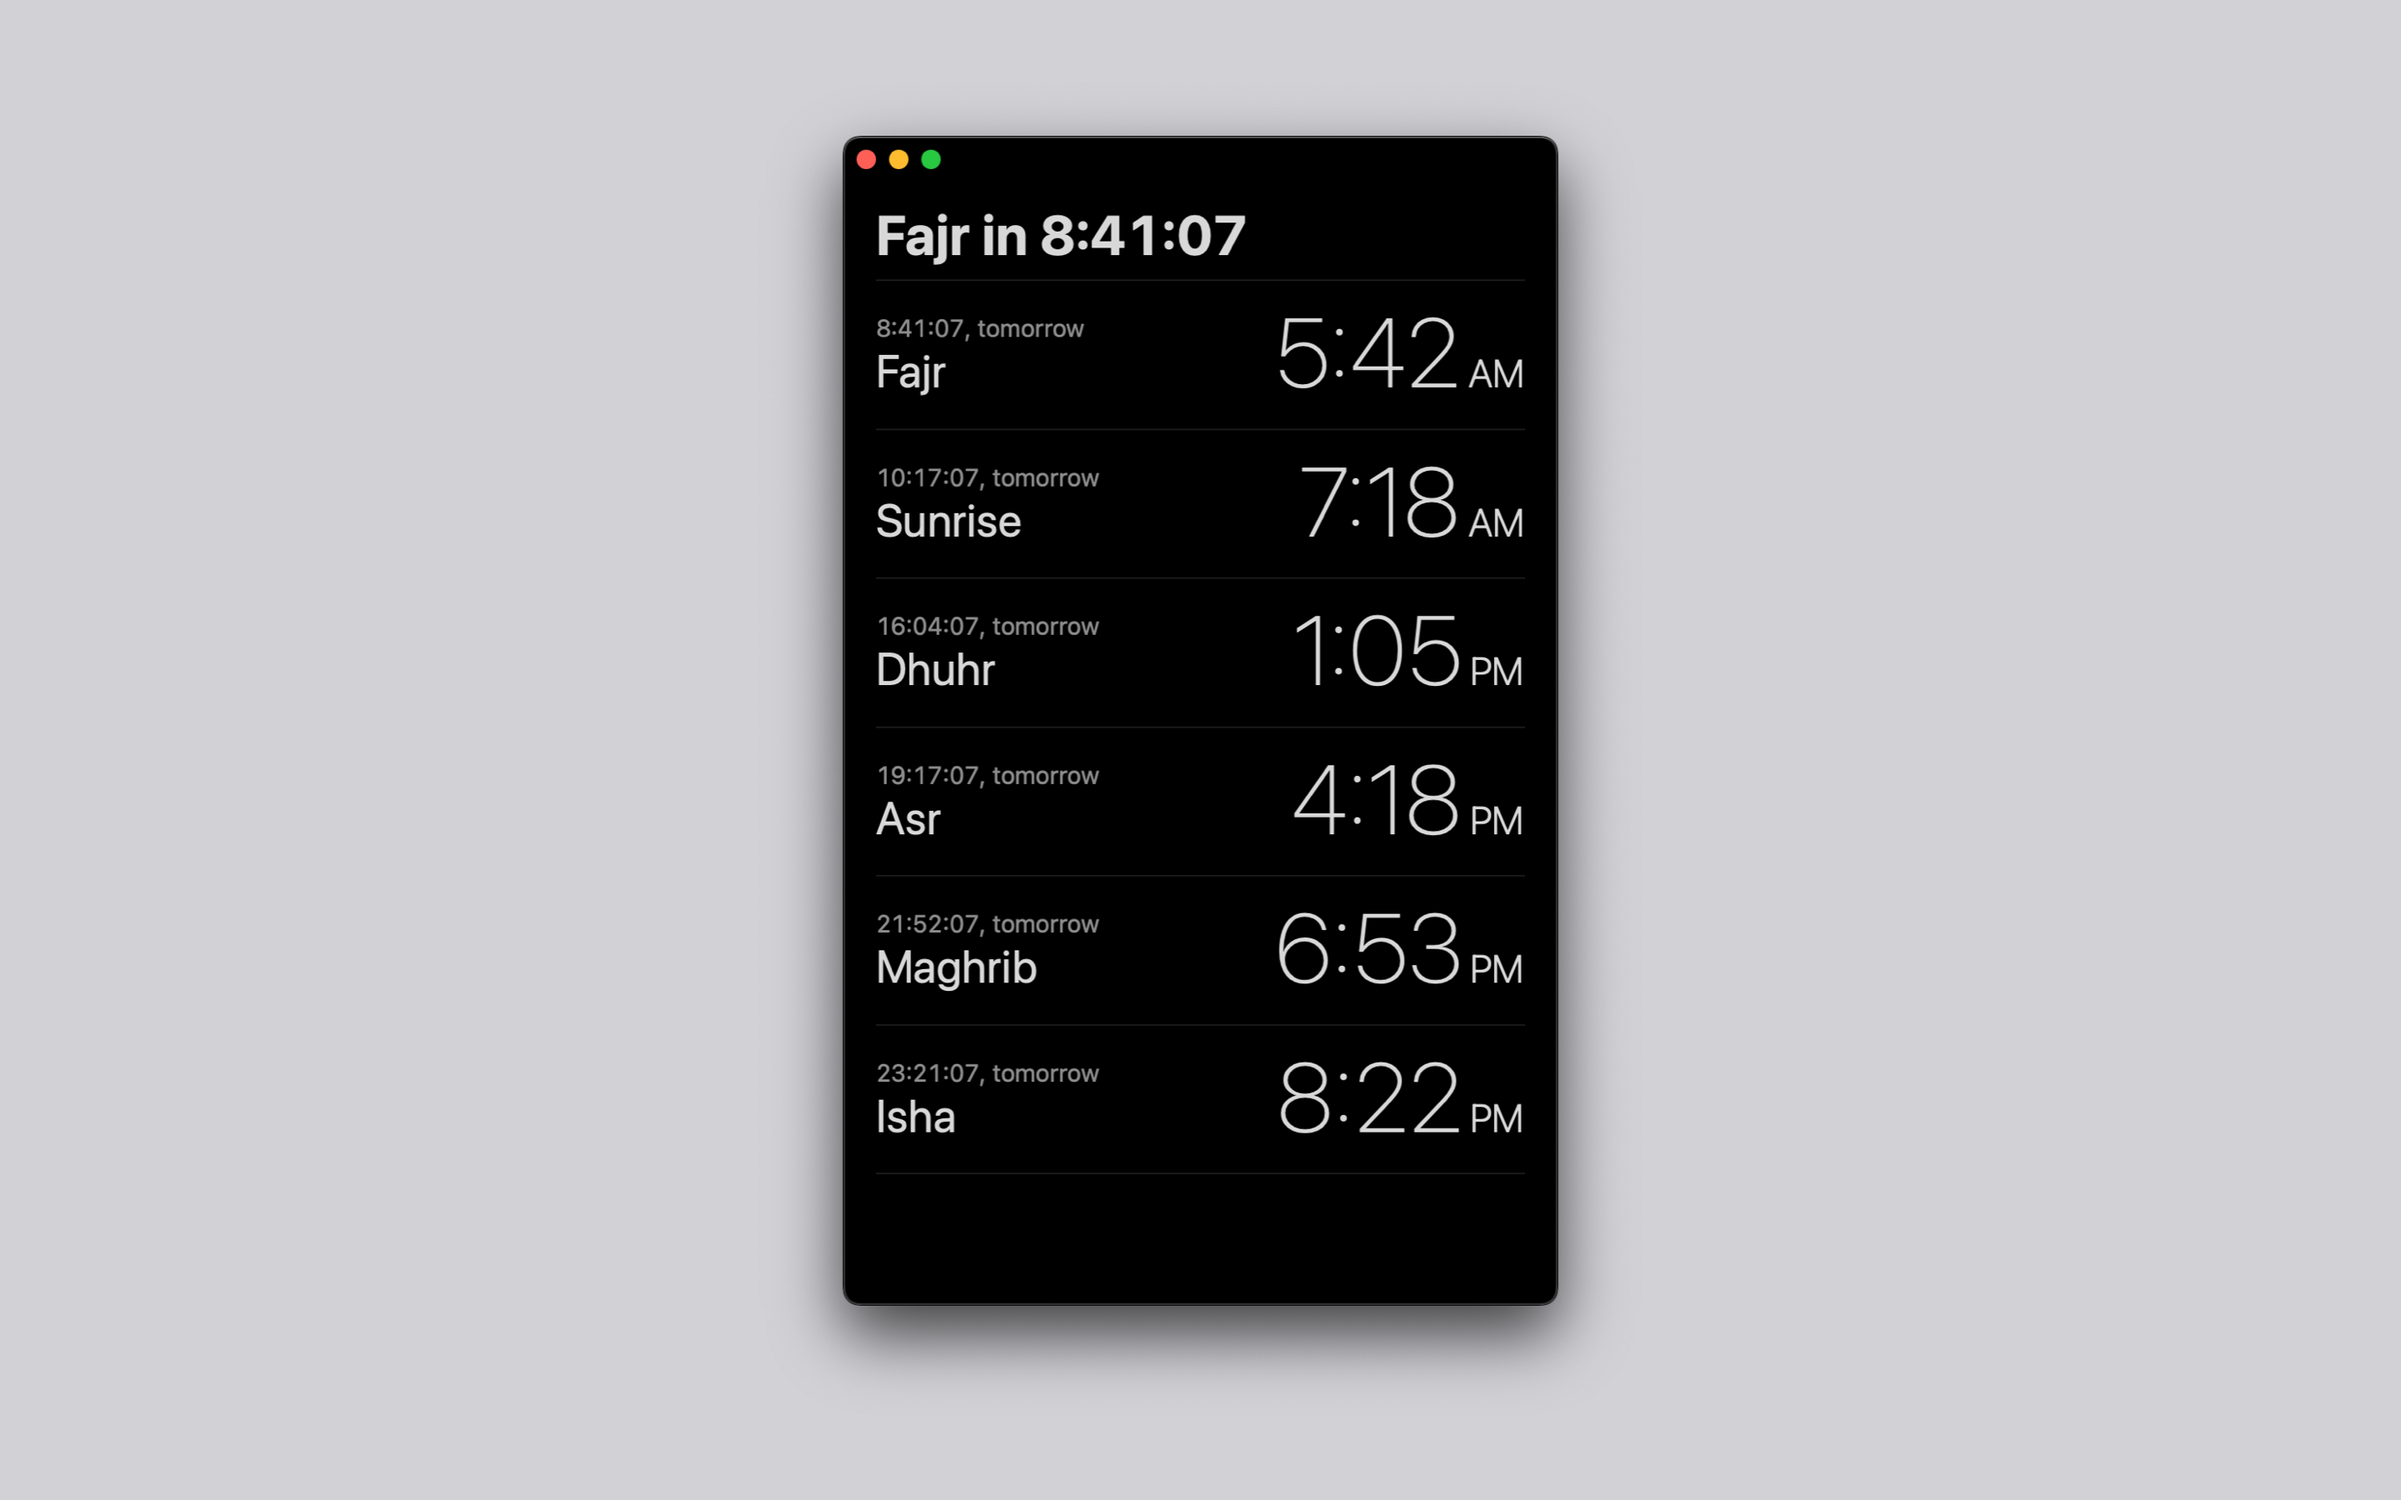
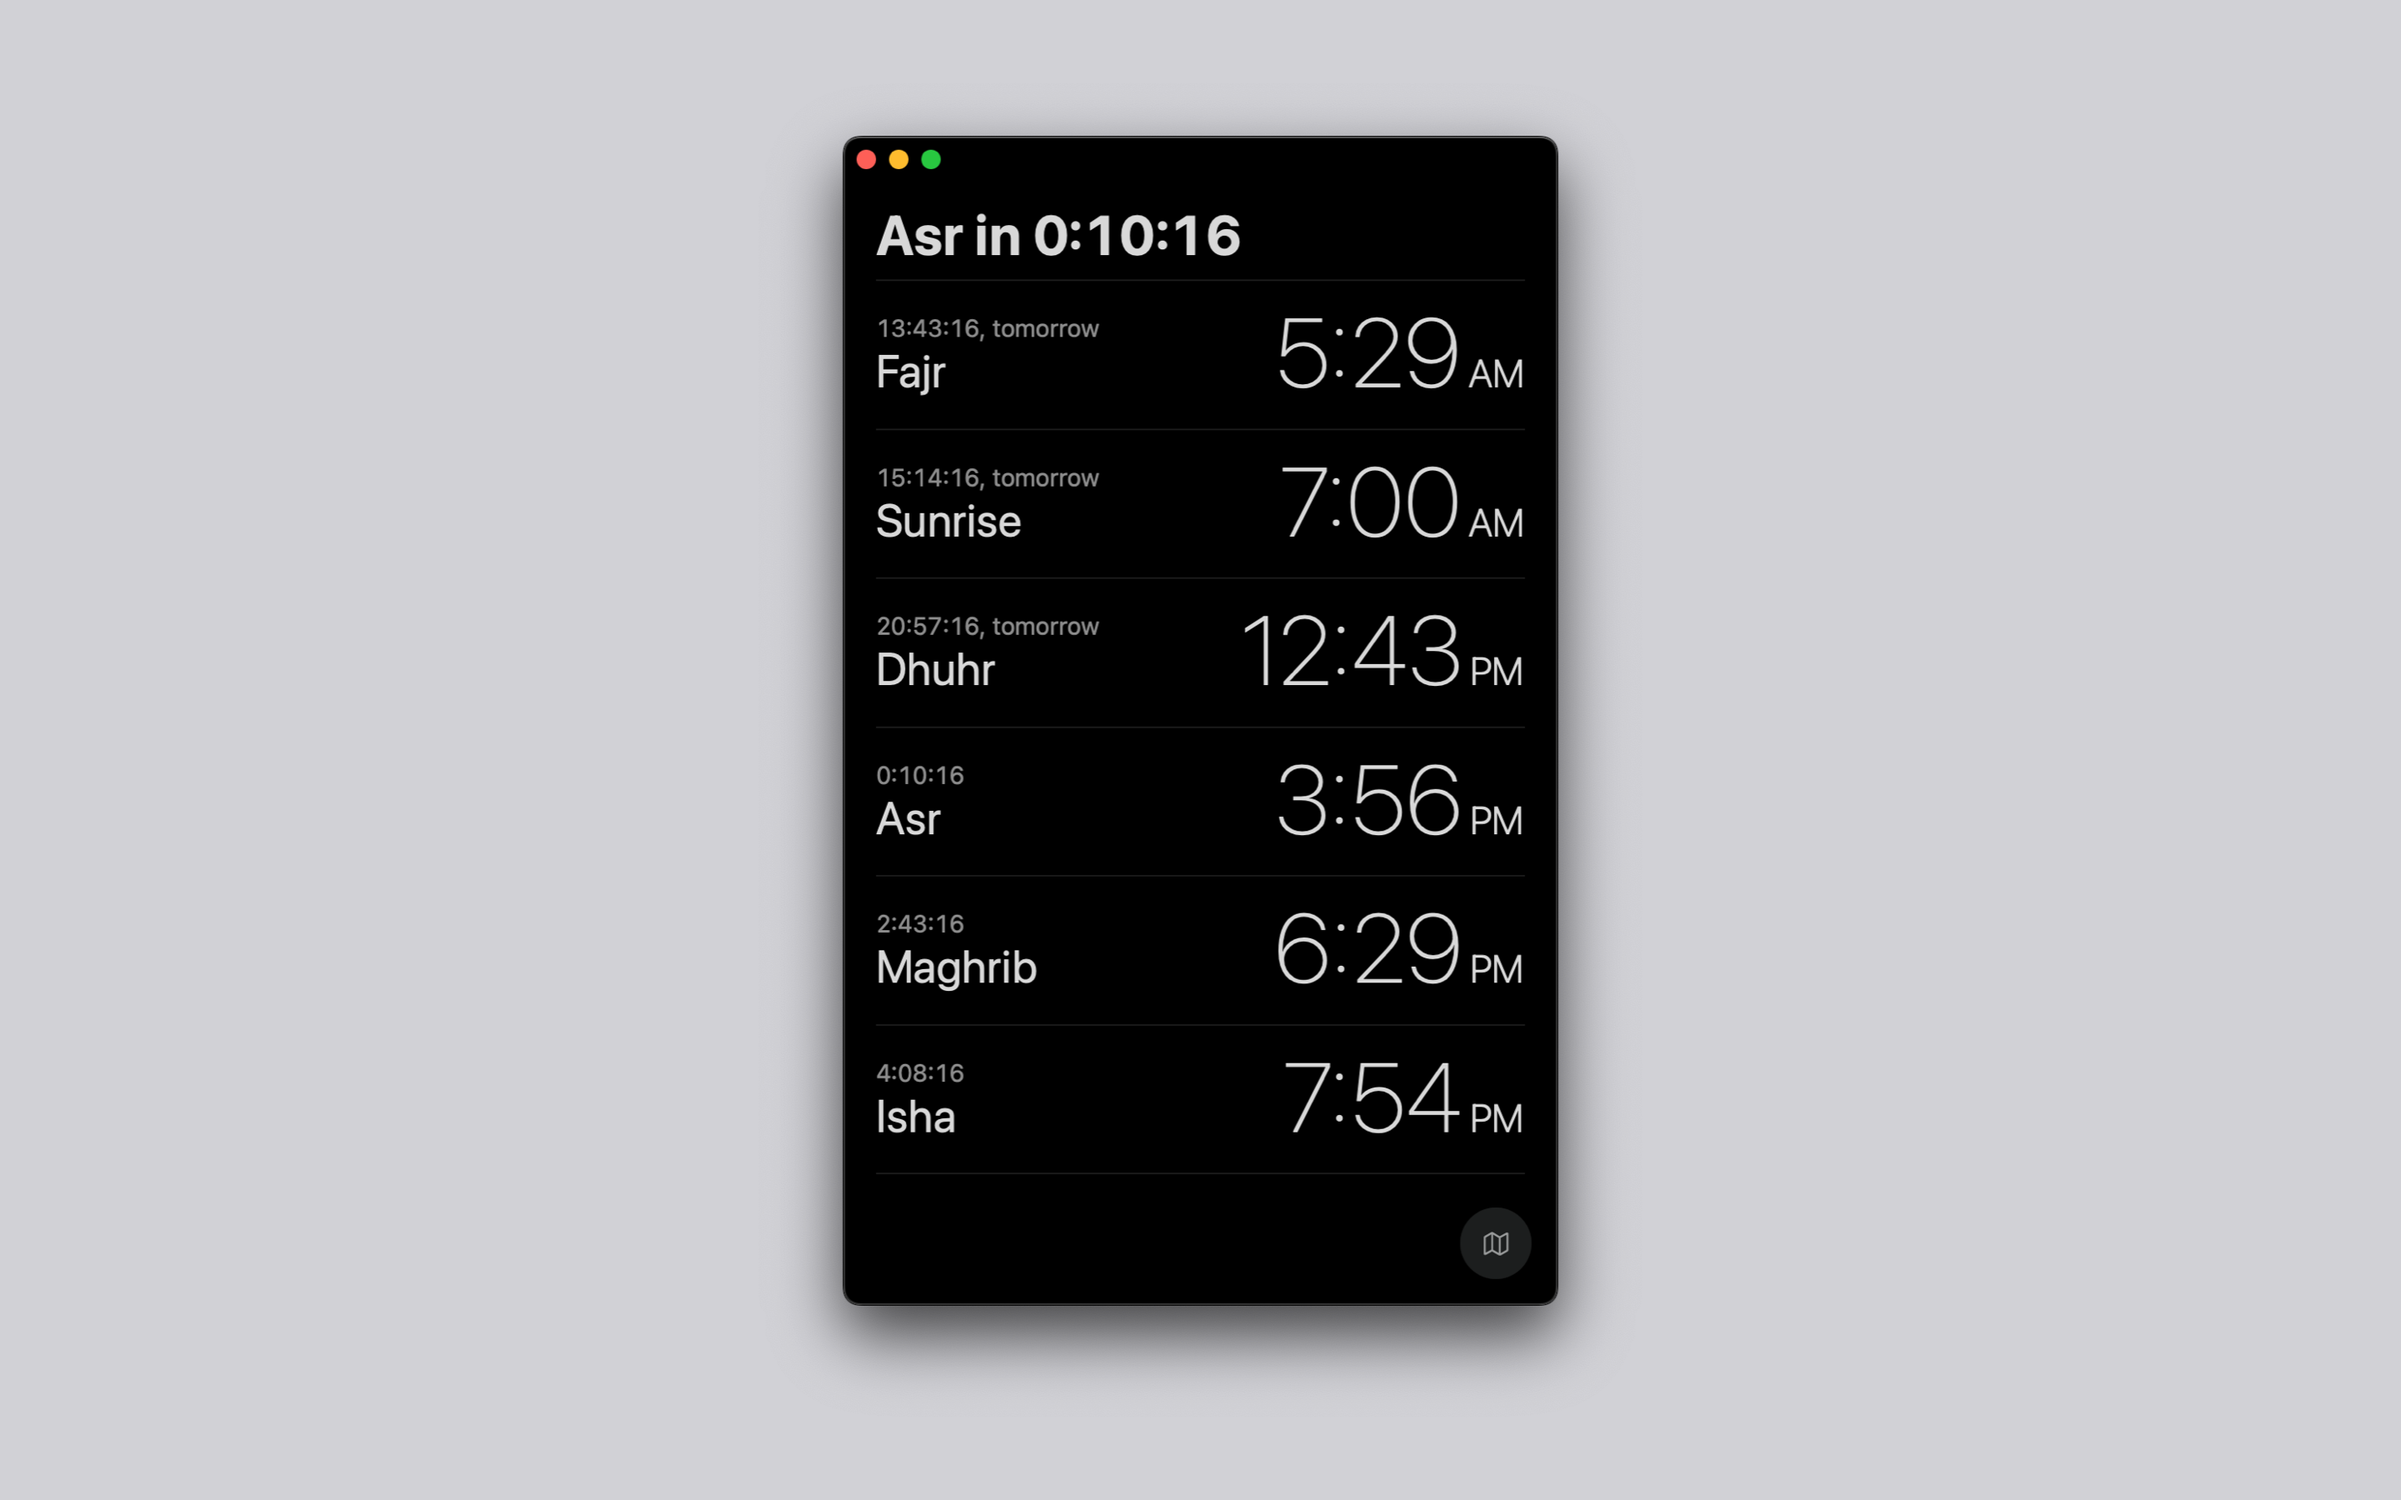
Retake App Store screenshots with the map button and picker
Screenshots for iPhone (6.5-inch), iPad and Mac show the new tab bar, and
iPhone and iPad add one of the location picker. All are flattened RGB PNGs
at the exact sizes App Store Connect accepts.

diff --git a/AppStore/Listing.md b/AppStore/Listing.md
@@ -71,11 +71,11 @@ Sign-in required: **No**.
 
 ## Screenshots
 
-These are in `Screenshots/`, already at the required sizes. Drag each set into its slot:
+These are in `Screenshots/`, at the exact sizes App Store Connect asks for, as RGB PNGs with no alpha channel. Drag each set into its slot in order:
 
-- iPhone 6.5" Display (1284 × 2778), the slot App Store Connect asks for: `iPhone 6.5 - 1 Dark`, `iPhone 6.5 - 2 Light`. The 6.9" originals (1320 × 2868) can go in Media Manager if wanted
-- iPad 13" Display (2064 × 2752): `iPad 13 - 1 Dark`, `iPad 13 - 2 Light`
+- iPhone 6.5" Display (1284 × 2778): `iPhone 6.5 - 1 Dark`, `iPhone 6.5 - 2 Light`, `iPhone 6.5 - 3 Map`
+- iPad 13" Display (2064 × 2752): `iPad 13 - 1 Dark`, `iPad 13 - 2 Light`, `iPad 13 - 3 Map`
 - Apple Watch (416 × 496): `Apple Watch - 1`
 - Mac (2880 × 1800): `Mac - 1`
 
-The Qibla screen isn't included because the simulator on this Intel Mac draws the 🕋 marker as "?". If you want it, take a screenshot on your iPhone (6.9" model) and add it as a third iPhone screenshot.
+The Qibla screen isn't included because the simulator on this Intel Mac draws the 🕋 marker as "?".
